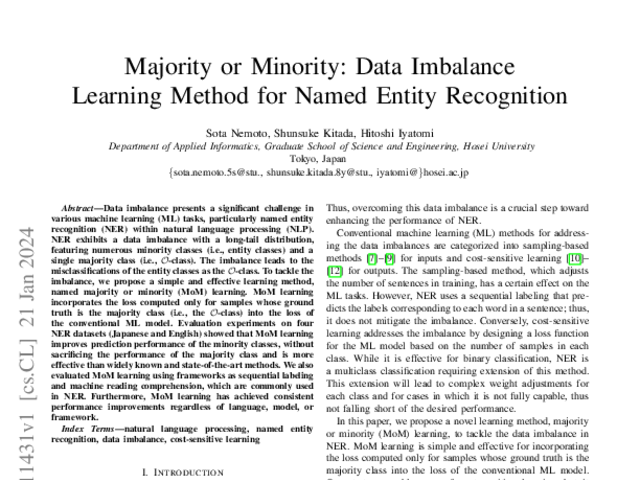
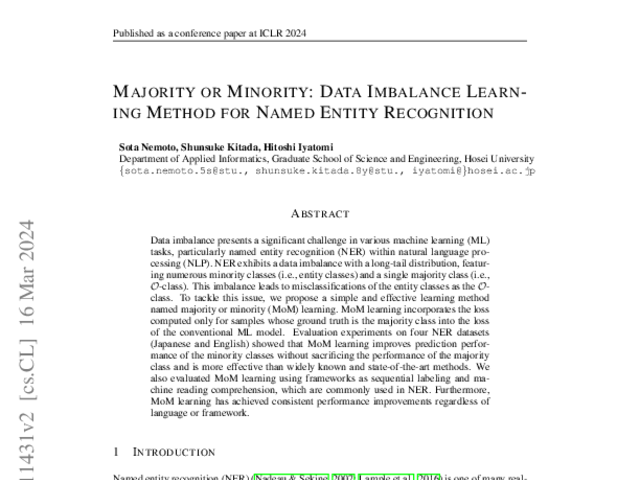
update `nemoto2024majority`

Changed region(s): [[0.0312, 0.4062, 0.9375, 1.0], [0.0938, 0.125, 0.9062, 0.375], [0.1562, 0.0625, 0.8125, 0.0938]]

diff --git a/content/publication/nemoto2024majority/index.md b/content/publication/nemoto2024majority/index.md
@@ -13,19 +13,19 @@ publishDate: 2024-01-25T23:20:23+09:00
 # Legend: 0 = Uncategorized; 1 = Conference paper; 2 = Journal article;
 # 3 = Preprint / Working Paper; 4 = Report; 5 = Book; 6 = Book section;
 # 7 = Thesis; 8 = Patent
-publication_types: ["article"]
+publication_types: ["paper-conference"]
 
 # Publication name and optional abbreviated publication name.
-publication: ""
-publication_short: ""
+publication: "Practical ML for Low Resource Settings Workshop @ ICLR 2024"
+publication_short: "PML4LRS@ICLR 2024"
 
 abstract: "Data imbalance presents a significant challenge in various machine learning (ML) tasks, particularly named entity recognition (NER) within natural language processing (NLP). NER exhibits a data imbalance with a long-tail distribution, featuring numerous minority classes (i.e., entity classes) and a single majority class (i.e., O-class). The imbalance leads to the misclassifications of the entity classes as the O-class. To tackle the imbalance, we propose a simple and effective learning method, named majority or minority (MoM) learning. MoM learning incorporates the loss computed only for samples whose ground truth is the majority class (i.e., the O-class) into the loss of the conventional ML model. Evaluation experiments on four NER datasets (Japanese and English) showed that MoM learning improves prediction performance of the minority classes, without sacrificing the performance of the majority class and is more effective than widely known and state-of-the-art methods. We also evaluated MoM learning using frameworks as sequential labeling and machine reading comprehension, which are commonly used in NER. Furthermore, MoM learning has achieved consistent performance improvements regardless of language, model, or framework.
 "
 
 # Summary. An optional shortened abstract.
-summary: ""
+summary: "[Practical ML for Low Resource Settings Workshop @ ICLR 2024](https://pml4dc.github.io/iclr2024/); Rating: 9: Top 15% of accepted papers, strong accept; Oral presentation"
 
-tags: ["Preprint"]
+tags: ["International Conference", "Referred", "Oral Presentation"]
 categories: ["Natural Language Processing", "Named Entity Recognition", "Imbalanced Dataset"]
 featured: false
 
